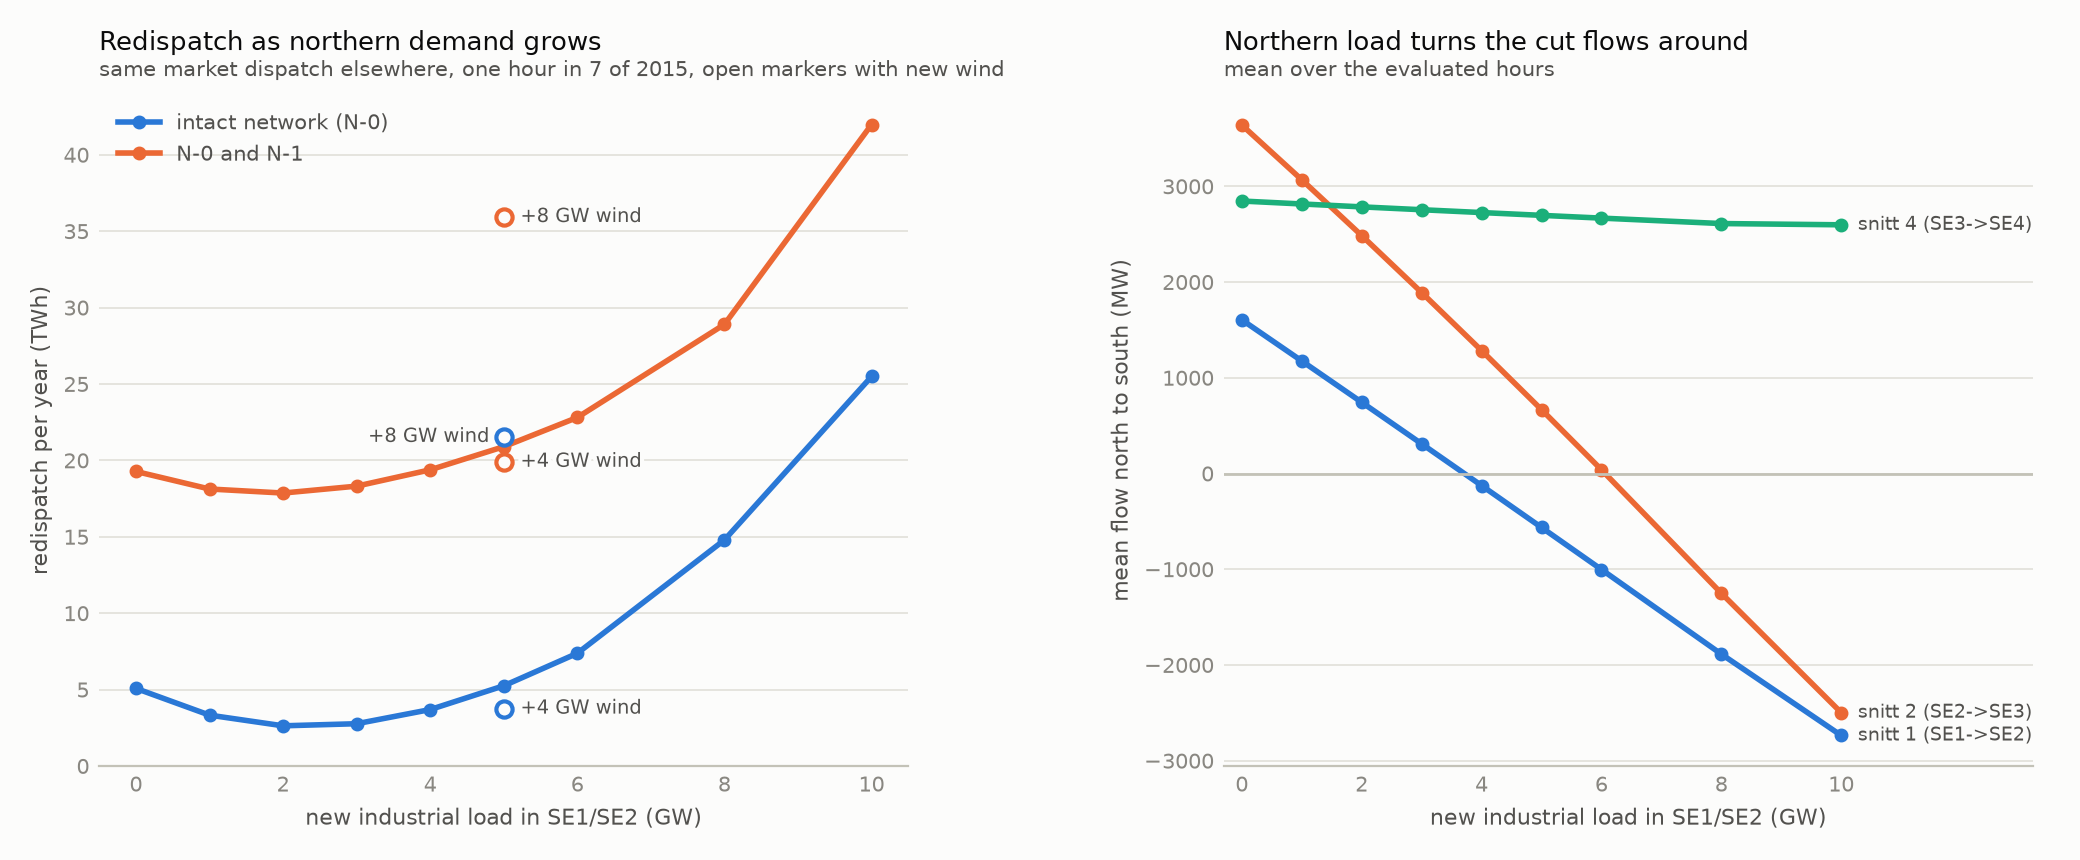
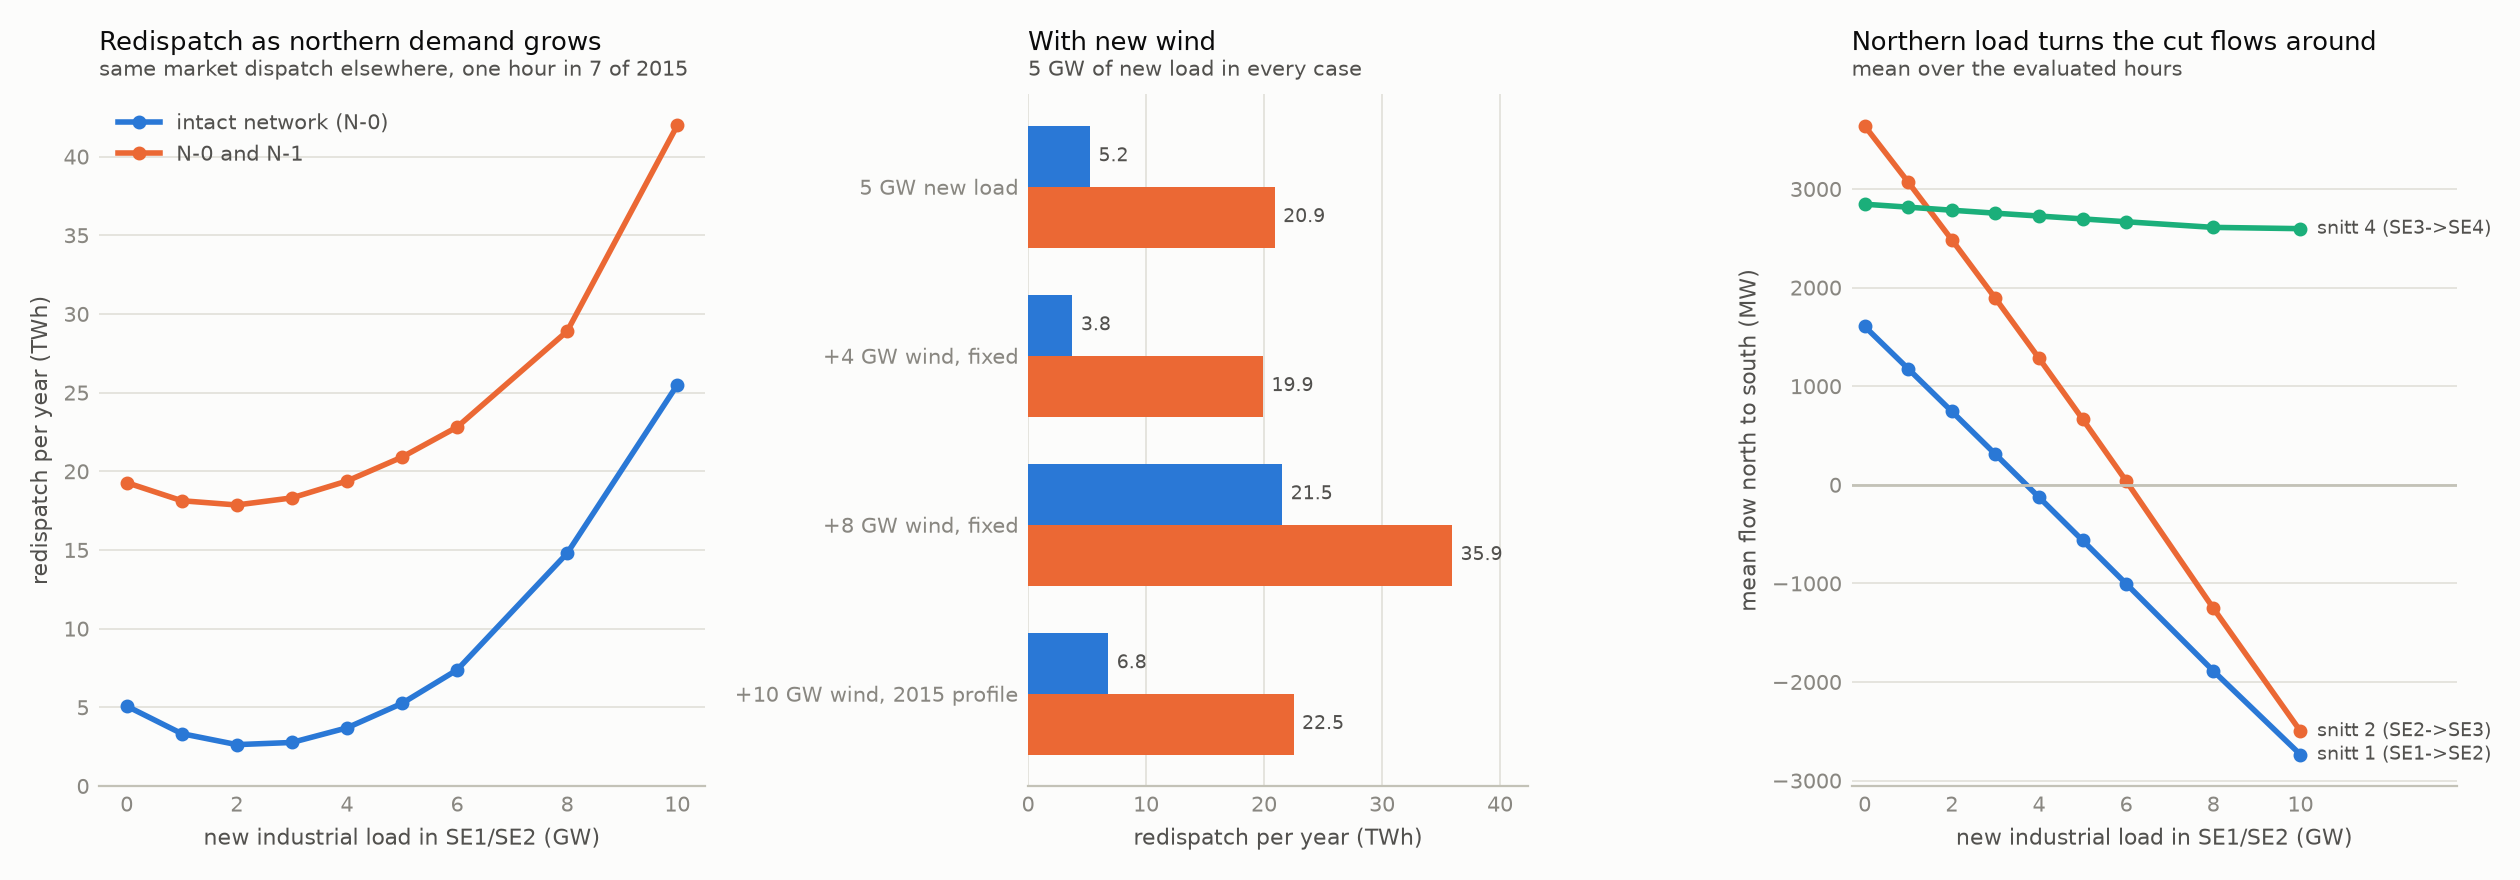
Use 2015 wind profile in wind scenario

diff --git a/scripts/16_scenarios.py b/scripts/16_scenarios.py
@@ -8,7 +8,9 @@ Scenarios (config/scenarios/*.yaml):
 - **ac_line_north, hvdc_north:** the same two options at the N-1 bottleneck north of
   Hjalta: a second Hjalta-Grundfors circuit, and the link from Grundfors to Ringhals;
 - **north_load:** new industrial load in SE1/SE2, from 1 to 10 GW;
-- **north_wind:** 5 GW of new load with 4 or 8 GW of new northern wind (fixed output).
+- **north_wind:** 5 GW of new load with new northern wind, at a fixed 4 or 8 GW in every
+  hour, and as 10 GW installed that follows 2015's hourly wind in SE1 and SE2 (ENTSO-E,
+  script 18; the run is left out when those data are missing).
 
 For every seventh hour of 2015 (1,252 hours), each scenario is solved in AC (``n44.acpf``)
 and then redispatched for N-0 and N-1 (``n44.redispatch``, with the HVDC set-point as a
@@ -74,10 +76,34 @@ AC_CHECK_STRIDE = 13  # every 13th evaluated hour gets a full AC N-1 after the r
 CHUNKS = 6  # chunks of hours per variant, each saved as soon as it is done
 VOLTAGE_MIN = 0.90
 MATERIAL_MW = 50.0  # the market flow counts as above the capability beyond this
+PROFILE = "profile"  # wind that follows the hourly profile instead of a fixed output
 
 
-def variants() -> list[tuple[str, float | None, float | None]]:
-    """(scenario, new load MW, new wind MW) of every run."""
+def wind_profile() -> pd.Series | None:
+    """2015's hourly wind output in the profile's zones over its maximum, or None.
+
+    From ENTSO-E's actual generation (scripts/18_download_entsoe.py); the hours it misses
+    are interpolated.
+    """
+    path = configured_path("processed_dir") / "entsoe_2015_generation.parquet"
+    if not path.exists():
+        return None
+    generation = pd.read_parquet(path)
+    zones = load_scenario("north_wind")["add_wind"]["profile"]["zones"]
+    total = sum(generation[(z, "B19")] for z in zones)
+    total = total.interpolate(limit_area="inside").ffill().bfill()
+    return total / total.max()
+
+
+def wind_output(name: str, wind, profile: pd.Series | None, h: int) -> float | None:
+    """New wind in hour ``h``: the fixed output, or the installed capacity times the profile."""
+    if wind != PROFILE:
+        return wind
+    return load_scenario(name)["add_wind"]["profile"]["installed_mw"] * float(profile[h])
+
+
+def variants() -> list[tuple[str, float | None, float | str | None]]:
+    """(scenario, new load MW, new wind MW or PROFILE) of every run."""
     out = [
         (name, None, None) for name in ("base", "ac_line", "hvdc", "ac_line_north", "hvdc_north")
     ]
@@ -90,6 +116,11 @@ def variants() -> list[tuple[str, float | None, float | None]]:
         ("north_wind", float(wind["add_load"]["sweep_mw"][0]), float(w))
         for w in wind["add_wind"]["sweep_mw"]
     ]
+    if "profile" in wind["add_wind"]:
+        if wind_profile() is None:
+            print("no ENTSO-E wind data (script 18): the wind-profile run is left out")
+        else:
+            out.append(("north_wind", float(wind["add_load"]["sweep_mw"][0]), PROFILE))
     return out
 
 
@@ -97,12 +128,17 @@ def label(name: str, load_mw: float | None, wind_mw: float | None = None) -> str
     if load_mw is None:
         return name
     tag = f"{name}_{load_mw / 1000:.0f}gw"
+    if wind_mw == PROFILE:
+        installed = load_scenario(name)["add_wind"]["profile"]["installed_mw"]
+        return f"{tag}_wind{installed / 1000:.0f}gw_profile"
     return tag if wind_mw is None else f"{tag}_wind{wind_mw / 1000:.0f}gw"
 
 
-def _context(name: str, load_mw: float | None, wind_mw: float | None):
+def _context(name: str, load_mw: float | None, wind_mw: float | str | None):
     scenario = load_scenario(name)
     ds = Dataset()
+    if wind_mw == PROFILE:  # the reference holds the wind loads at full output
+        wind_mw = scenario["add_wind"]["profile"]["installed_mw"]
     reference = modify_case(parse_raw(ds.raw_text(0, "after")), scenario, load_mw, wind_mw=wind_mw)
     net = build_net(reference)
     table = branch_table(net)
@@ -210,15 +246,19 @@ def solve_hours(job: tuple) -> Path:
     hvdc = links(scenario)
     zone = net.bus.zone
     cut_model = _cut_model(net, dc, table, outages, units, hvdc, generation)
+    profile = wind_profile() if wind_mw == PROFILE else None
     rows = []
     for h in hours:
         raw_case = parse_raw(ds.raw_text(int(h), "after"))
-        case = modify_case(raw_case, scenario, load_mw, wind_mw=wind_mw)
+        wind_h = wind_output(name, wind_mw, profile, int(h))
+        case = modify_case(raw_case, scenario, load_mw, wind_mw=wind_h)
         grid = grid_from_case(case)
         if grid.names != names:
             raise RuntimeError("branch order differs between the AC and DC models")
         base = solve(grid)
         row = {"h": int(h), "converged": base.converged}
+        if wind_h is not None:
+            row["wind_mw"] = wind_h
         if not base.converged:
             rows.append(row)
             continue
@@ -249,7 +289,7 @@ def solve_hours(job: tuple) -> Path:
         row["n1_binding"] = "; ".join(r.binding)
         row.update(_capabilities(pre, r.up - r.down, r.links, cut_model, dc, table, outages, shift))
         if h in ac_hours:
-            row.update(ac_check(raw_case, scenario, load_mw, wind_mw, r, units, outages, table))
+            row.update(ac_check(raw_case, scenario, load_mw, wind_h, r, units, outages, table))
         rows.append(row)
     path.parent.mkdir(parents=True, exist_ok=True)
     partial = path.with_suffix(".tmp")
@@ -359,6 +399,8 @@ def main() -> None:
         }
         if "n1_hvdc_mw" in solved:
             entry["hvdc_mean_mw"] = solved.n1_hvdc_mw.mean()
+        if "wind_mw" in solved:
+            entry["wind_mean_mw"] = solved.wind_mw.mean()
         summary.append(entry)
     summary = pd.DataFrame(summary)
     out = configured_path("results_dir")
